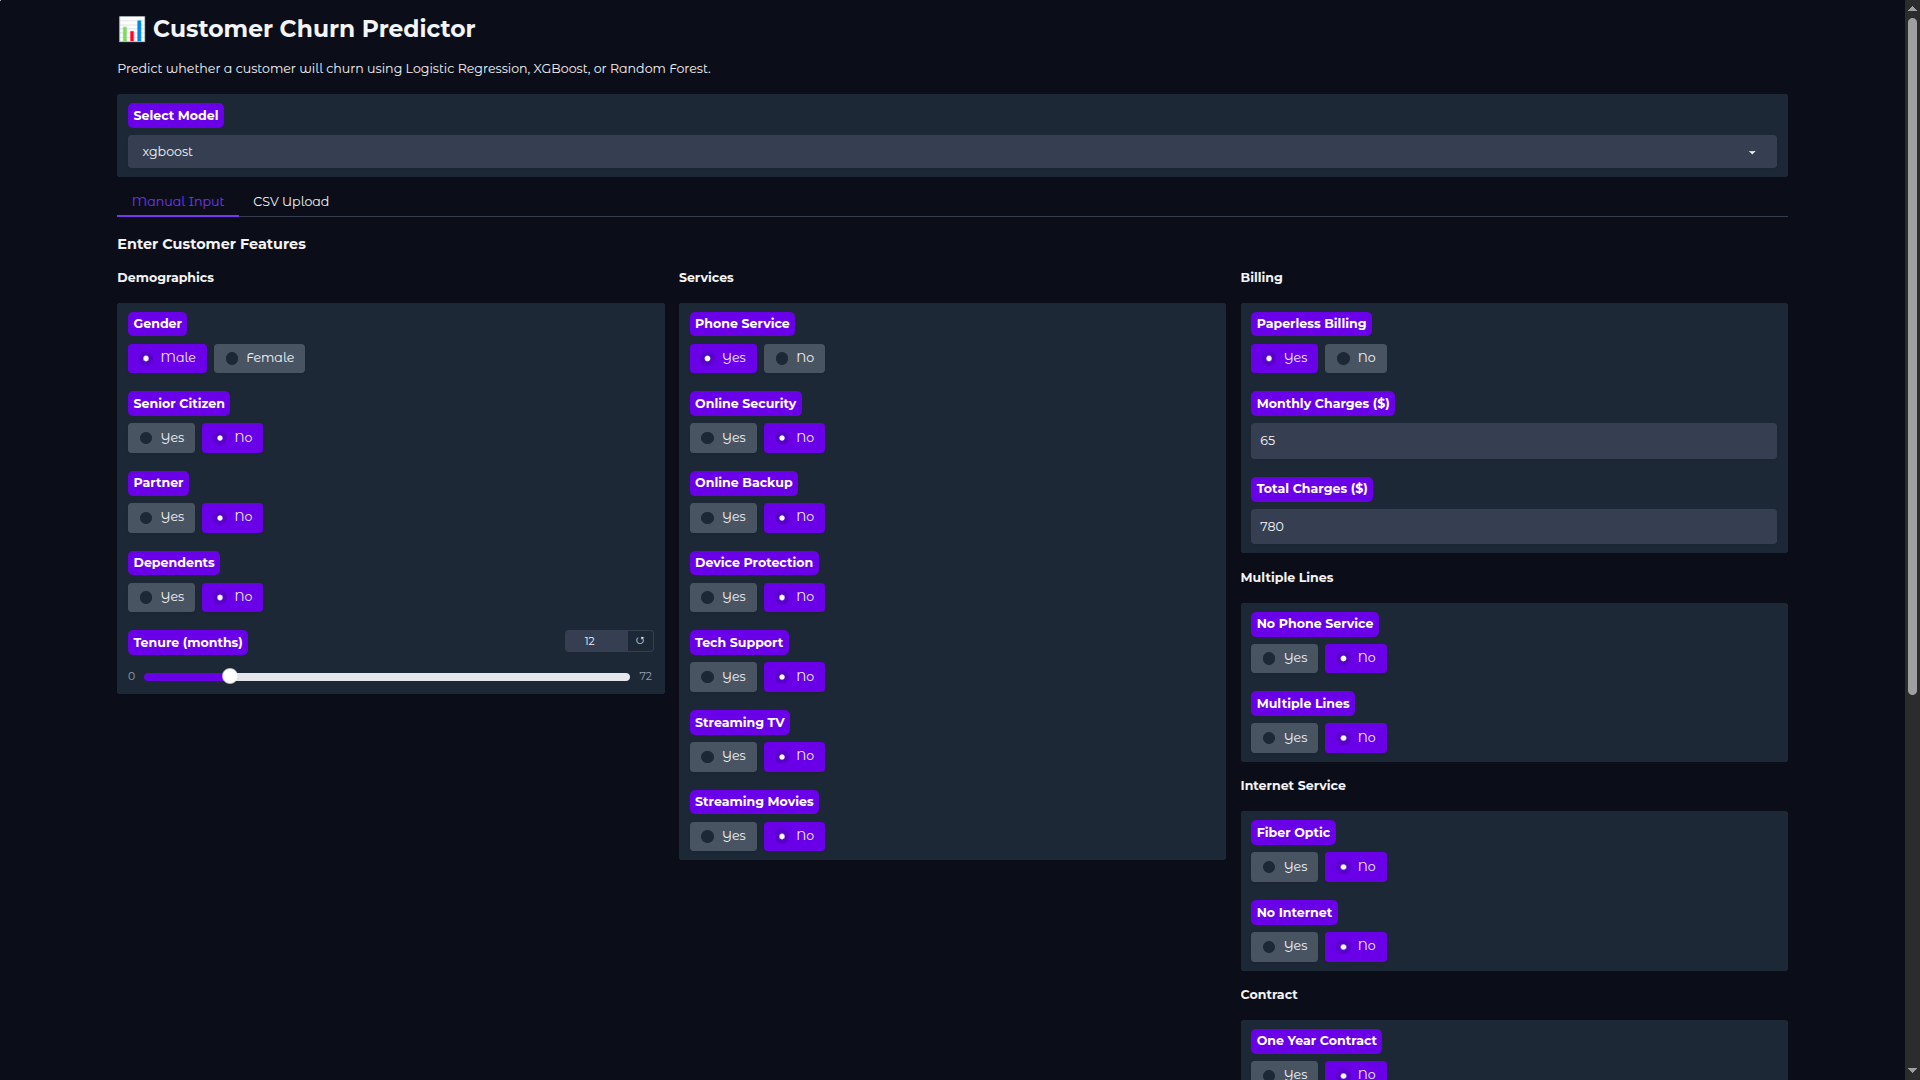
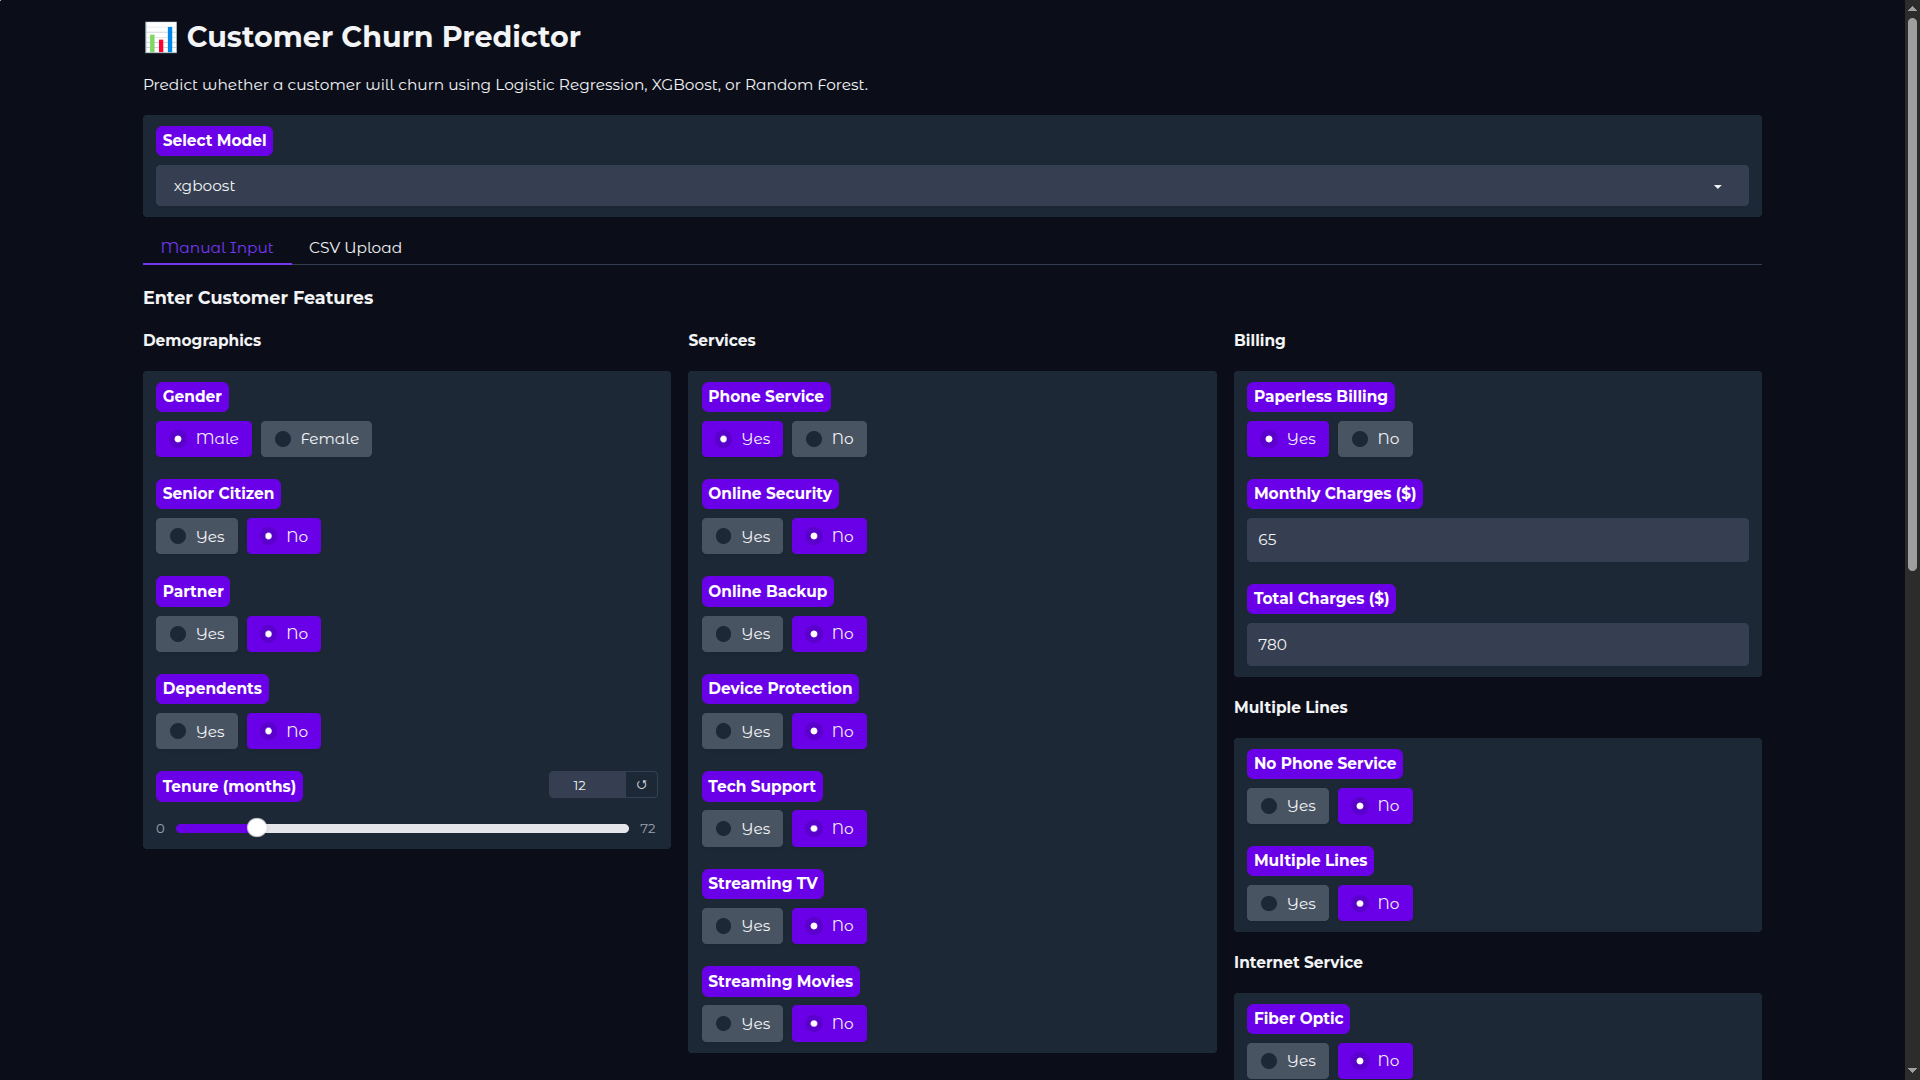
Made some changes in the .readme

diff --git a/README.md b/README.md
@@ -250,6 +250,8 @@ Response:
 
 ## Screenshots
 
+![Manual Prediction](images/model.png)
+
 ![Manual Prediction](images/manual_prediction.png)
 
 ![CSV Upload](images/csv_upload.png)